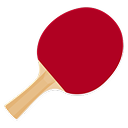
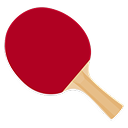
make racket click real and smoother ball movement

diff --git a/impressum/index.html b/impressum/index.html
@@ -14,19 +14,23 @@
     <script src="https://code.jquery.com/jquery-3.3.1.js"
         integrity="sha256-2Kok7MbOyxpgUVvAk/HJ2jigOSYS2auK4Pfzbm7uH60=" crossorigin="anonymous">
         </script>
-    <script>
-        $(function () {
-            $("#header").load("/header.html");
-            $("#footer").load("/footer.html");
-        });
-    </script>
     <script src="/ball.js"></script>
-
 </head>
 
 <body>
-
-    <div id="header"></div>
+    <header>
+        <div class="container-menu">
+            <nav>
+                <strong class="header-title">Lionel Weber Tischtennis</strong>
+                <div></div>
+                <ul>
+                    <li><a href="/#about">Über mich</a></li>
+                    <li><a href="/#training">Angebot</a></li>
+                    <li><a href="/#contact">Kontakt</a></li>
+                </ul>
+            </nav>
+        </div>
+    </header>
     <main>
 
         <section id="impressum">
@@ -41,6 +45,10 @@
                 <p>Mail: <a href="mailto:lionelwebertt@yahoo.de">lionelwebertt@yahoo.de</a></p>
                 <h3>Fotos Credits</h3>
                 <p>Über mich & Trainingsphilosophie: <strong>René Zwald</strong></p>
+                <h3>Legal Notice</h3>
+                <p>Die Inhalte dieser Website wurden mit grösster Sorgfalt erstellt. Für die Richtigkeit,
+                    Vollständigkeit oder Aktualität der bereitgestellten Informationen wird jedoch keine Gewähr
+                    übernommen.</p>
             </div>
         </section>
 
@@ -65,10 +73,32 @@
                 </div>
             </div>
         </section>
-
     </main>
 
-    <div id="footer"></div>
+    <footer class="footer">
+        <div class="footer-content">
+            <p>&copy; <span id="year"></span> Lionel Weber | All rights reserved. | <a href="/impressum"
+                    style="color: white; text-decoration: underline;">Impressum</a>
+            <div class="social-icons">
+                <a href="https://www.instagram.com/weber_lionel" target="_blank"
+                    class="d-inline-block text-center ml-2">
+                    <i class="fa fa-instagram" aria-hidden="true"></i>
+                </a>
+                <a href="https://www.linkedin.com/in/lionel-weber-tt" target="_blank"
+                    class="d-inline-block text-center ml-2">
+                    <i class="fa fa-linkedin" aria-hidden="true"></i>
+                </a>
+                <a class="d-inline-block text-center ml-2" href="https://wa.me/41786353018" target="_blank"
+                    rel="noopener noreferrer">
+                    <i class="fa fa-whatsapp" aria-hidden="true"></i>
+                </a>
+            </div>
+        </div>
+    </footer>
+    <script>
+        document.getElementById("year").textContent = new Date().getFullYear();
+    </script>
+    <script src="../ball.js"></script>
 
 </body>
 

diff --git a/index.html b/index.html
@@ -46,7 +46,6 @@
         <div class="container-menu">
             <nav>
                 <strong class="header-title">Lionel Weber Tischtennis</strong>
-                <div></div>
                 <ul>
                     <li><a href="/#about">Über mich</a></li>
                     <li><a href="/#training">Angebot</a></li>
@@ -61,8 +60,9 @@
         <section class="hero">
             <div class="hero-bg"></div>
             <div class="hero-content">
-                <h1 class="hero-title">Individuelles <span
-                        style="border-bottom: 6px solid var(--accent);">Tischtennis</span> Training mit Lionel Weber
+                <h1 class="hero-title">Individuelles
+                    <span class="underline">Tischtennis</span>
+                    Training mit Lionel Weber
                 </h1>
                 <p class="hero-subtitle">
                     Trainiere mit dem 5-fachen Schweizermeister!
@@ -135,7 +135,6 @@
                     <img src="/images/training_insight.png" class="img-portrait">
                 </div>
                 <div>
-                    <!-- <h2>Trainingsphilosophie</h2> -->
                     <h2 class="section-title">
                         Trainingsphilosophie
                         <span class="title-bar"></span>
@@ -187,8 +186,6 @@
         </section>
         <section id="contact">
             <div class="container grid grid-2">
-
-
                 <div>
                     <h2 class="section-title">
                         Kontakt
@@ -211,16 +208,32 @@
                 </div>
             </div>
         </section>
-
     </main>
 
-    <div id="footer"></div>
-
-
-
-
+    <footer class="footer">
+        <div class="footer-content">
+            <p>&copy; <span id="year"></span> Lionel Weber | All rights reserved. | <a href="/impressum"
+                    style="color: white; text-decoration: underline;">Impressum</a>
+            <div class="social-icons">
+                <a href="https://www.instagram.com/weber_lionel" target="_blank"
+                    class="d-inline-block text-center ml-2">
+                    <i class="fa fa-instagram" aria-hidden="true"></i>
+                </a>
+                <a href="https://www.linkedin.com/in/lionel-weber-tt" target="_blank"
+                    class="d-inline-block text-center ml-2">
+                    <i class="fa fa-linkedin" aria-hidden="true"></i>
+                </a>
+                <a class="d-inline-block text-center ml-2" href="https://wa.me/41786353018" target="_blank"
+                    rel="noopener noreferrer">
+                    <i class="fa fa-whatsapp" aria-hidden="true"></i>
+                </a>
+            </div>
+        </div>
+    </footer>
+    <script>
+        document.getElementById("year").textContent = new Date().getFullYear();
+    </script>
     <script src="ball.js"></script>
-
 </body>
 
 </html>

diff --git a/ball.js b/ball.js
@@ -8,24 +8,33 @@ document.addEventListener("click", (e) => {
     let y = e.clientY - 12.5;
     ball.style.left = `${x}px`;
     ball.style.top = `${y}px`;
+    const randomSpeed = () => {
+        const sign = Math.random() < 0.5 ? -1 : 1; // negative oder positive Range
+        const min = 0.5;
+        const max = 0.8;
+        return sign * (min + Math.random() * (max - min));
+    }
 
-    let xSpeed = (Math.random() - 0.5) * 25; // horizontal speed
-    let ySpeed = (Math.random() - 0.5) * 25; // vertical speed
-    const spinSpeed = (Math.random() - 0.3) * 80; // degrees per frame
+    const speedDistribution = Math.random()
+    let xSpeed = speedDistribution * 30 * randomSpeed();
+    let ySpeed = (1 - speedDistribution) * 30 * randomSpeed();
 
-    const accelerationX = 1.011; // speed multiplier per frame
-    const accelerationY = 1.029; // speed multiplier per frame
+    console.log(ySpeed, xSpeed)
+    const randomSign = Math.random() < 0.5 ? -1 : 1;
+    let zSpeed = 1.0;
 
+    const accelerationX = 1.02;
+    const accelerationY = 1.02;
+    const accelerationZ = 0.01 * randomSign;
     function animate() {
         xSpeed *= accelerationX;
         ySpeed *= accelerationY;
-
+        zSpeed += accelerationZ;
         x += xSpeed;
         y += ySpeed;
 
-        const rotate = spinSpeed * 6;
 
-        ball.style.transform = `translate(${x - e.clientX + 12.5}px, ${y - e.clientY + 12.5}px) rotate(${rotate}deg)`;
+        ball.style.transform = `translate(${x - e.clientX + 12.5}px, ${y - e.clientY + 12.5}px) scale(${zSpeed})`;
 
         const rect = ball.getBoundingClientRect();
         if (rect.top > window.innerHeight || rect.bottom < 0 || rect.left > window.innerWidth || rect.right < 0) {
@@ -71,12 +80,29 @@ if (!isTouchDevice) {
 document.addEventListener("mousedown", () => {
     cursorBall.style.transform = `translate(-50%, -50%) scale(1.2)`;
     cursorBall.style.opacity = `80%`;
+    if (cursorBall.classList.contains("cursor-racket")) {
+        cursorBall.style.transform = "rotateX(-60deg) rotateY(10deg)";;
+        console.log("rotete")
+    }
 
 });
 document.addEventListener("mouseup", () => {
     cursorBall.style.transform = `translate(-50%, -50%) scale(1)`;
     cursorBall.style.opacity = `100%`;
 
+
+
 });
 
 
+document.addEventListener("DOMContentLoaded", () => {
+    const heroBg = document.querySelector(".hero-bg"); // dein div hat keine ID
+
+    if (!heroBg) return; // Sicherheit
+
+    document.addEventListener("mousemove", (e) => {
+        const x = (e.clientX / window.innerWidth - 0.5) * 30; // max ±10px
+        const y = (e.clientY / window.innerHeight - 0.5) * 20;
+        heroBg.style.transform = `scale(1.1) translate(${x}px, ${y}px)`;
+    });
+});

diff --git a/css/custom.css b/css/custom.css
@@ -82,12 +82,6 @@ header {
     }
 }
 
-/* .container {
-    max-width: var(--max-width);
-    margin: 0 auto;
-    padding: 1.5rem;
-} */
-
 nav {
     display: flex;
     justify-content: space-between;
@@ -338,10 +332,7 @@ section {
     display: flex;
     flex-direction: column;
     justify-content: flex-start;
-    box-shadow: 0 3px 15px rgba(0, 0, 0, 0.1);
-
-
-    
+    box-shadow: 0 3px 15px rgba(0, 0, 0, 0.1);    
 }
 
 .card:hover {
@@ -350,6 +341,23 @@ section {
     box-shadow: 0 3px 15px var(--accent);
 
 
+}
+.underline {
+  position: relative;
+  display: inline-block;
+}
+
+.underline::after {
+  content: "";
+  position: absolute;
+  left: 0;
+  bottom: 0;
+  width: 100%;
+  height: 6px;
+  background-color: var(--accent);
+  border-radius: 80% / 100%; /* macht einen leichten Bogen */
+  transform: skew(0, .5deg) scaleX(1.1);
+  transform-origin: center center;
 }
 
 .card__footer {
@@ -387,6 +395,8 @@ section {
     border: none;
     box-shadow: none;
     opacity: 80%;
+    transition: transform 0.2s ease-out; /* smooth animation */
+    transform-origin: bottom center;      
 }
 
 .success-list {
